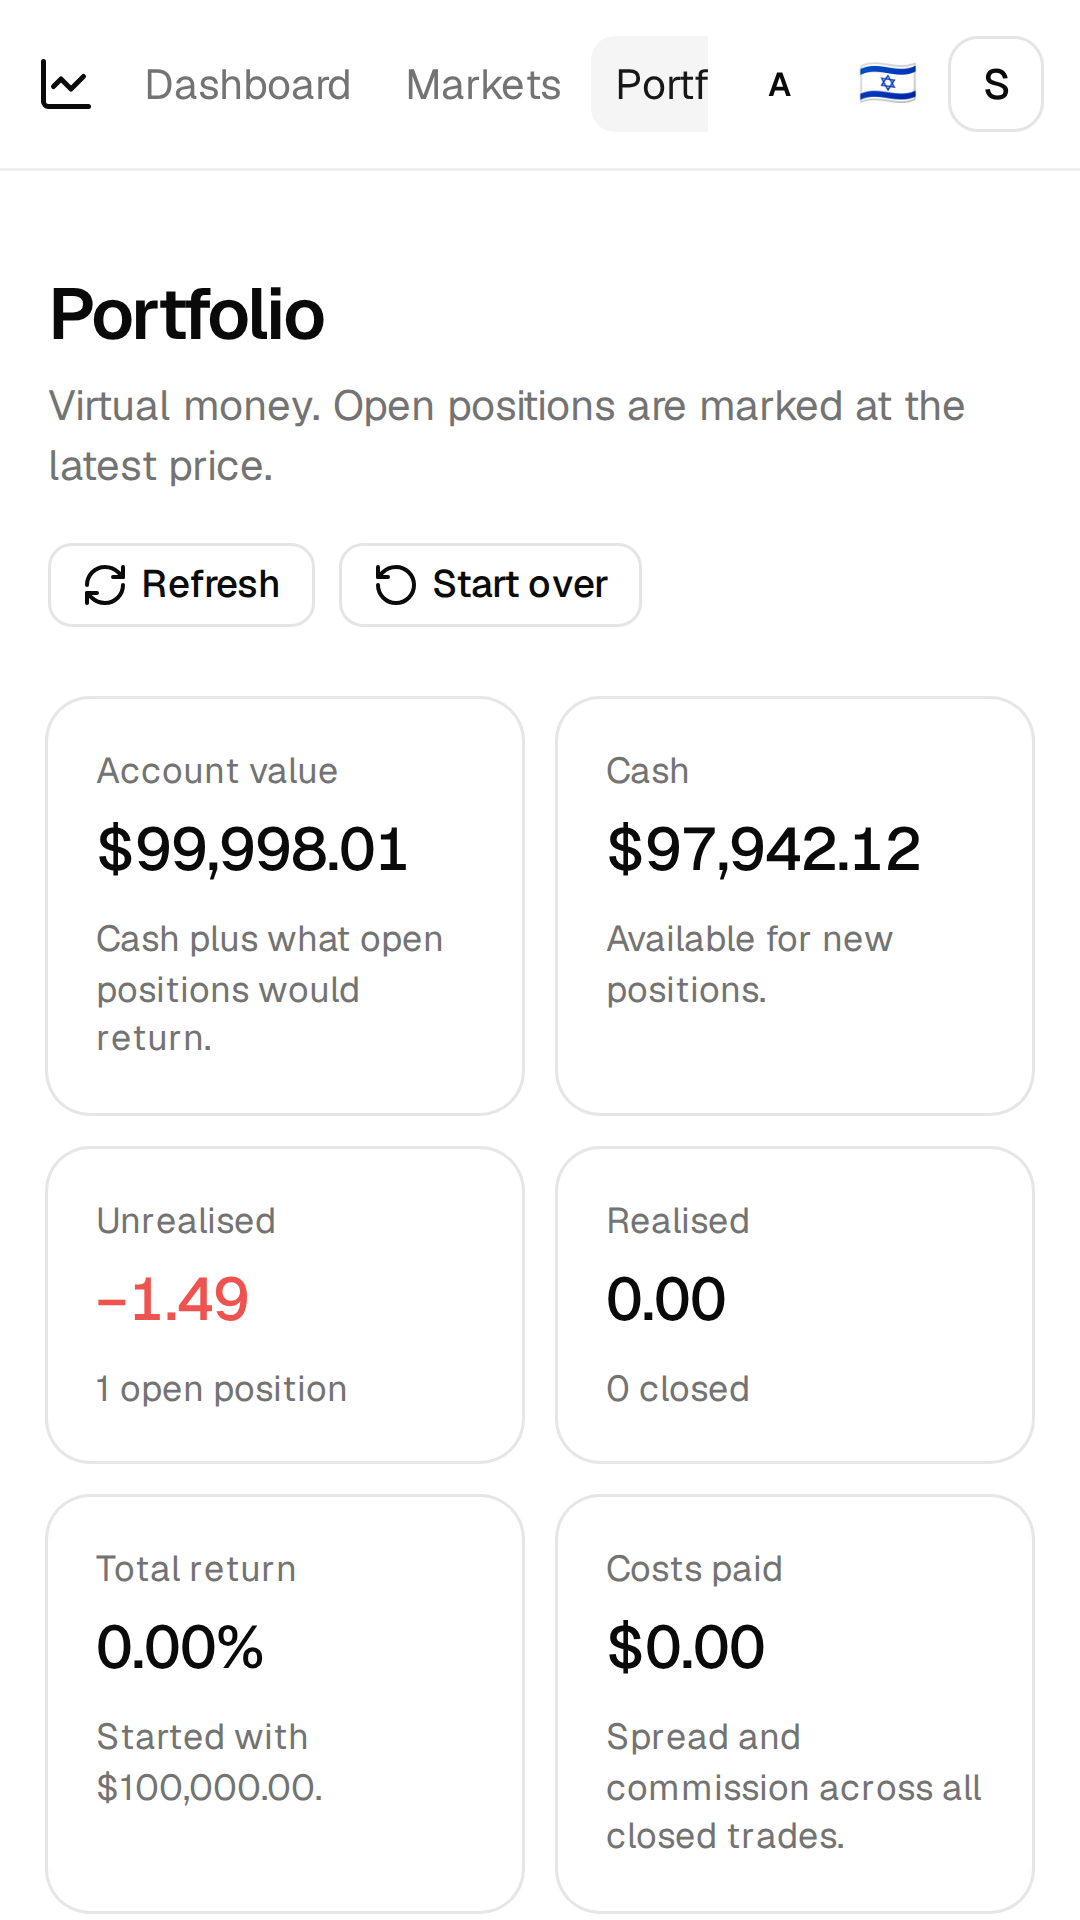
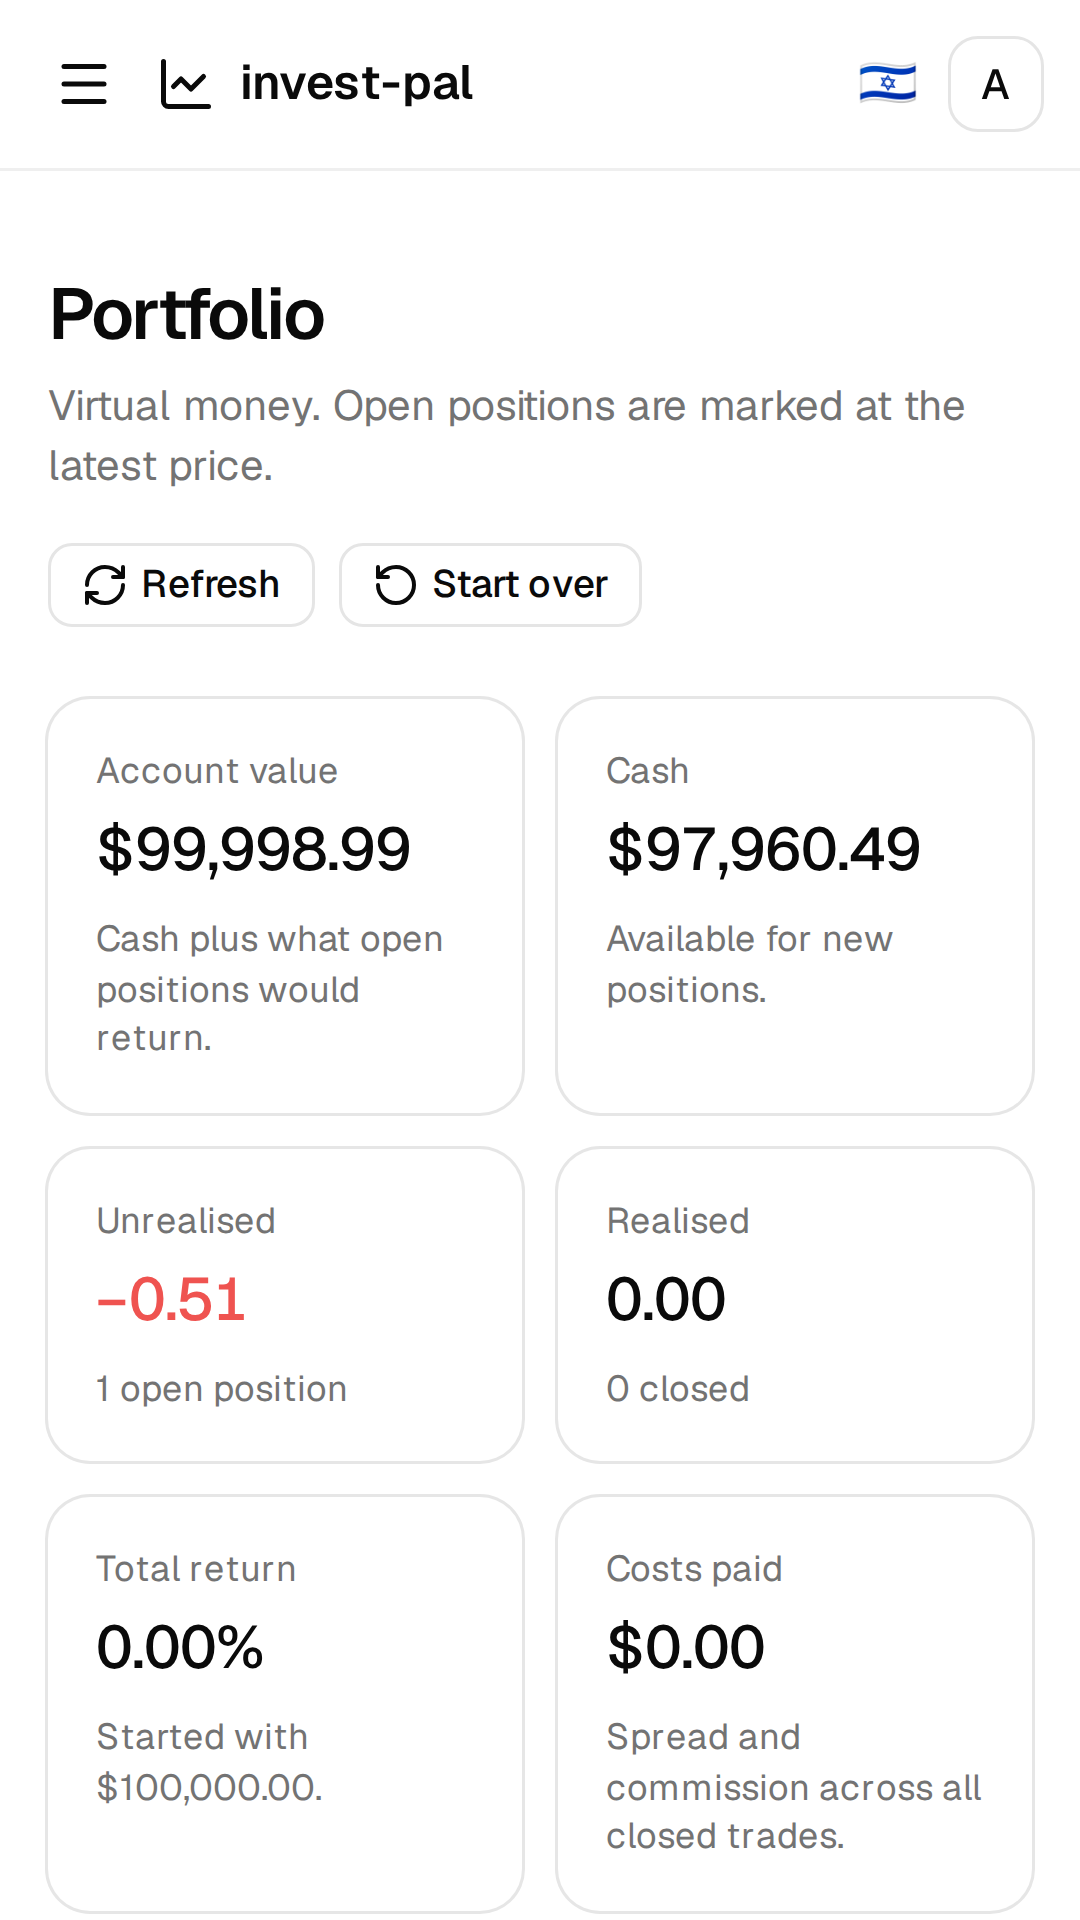
Retake the store screenshots on the current app, and add the settings menu
The listing showed an app that no longer exists: the old two-row header
with its tabs, and — once reviewed in Hebrew — signed numbers drawn
backwards, which #29 fixed. All ten are retaken against production after
that deploy, measured first: every signed value on the pages shot reads left
to right.

A fifth shot per language opens the menu on its settings. Dark mode, the
palettes, the text sizes and reduce motion all live behind that button, so a
listing that never opened it never showed them.

Claude-Session: https://claude.ai/code/session_01NV8A7hNTge8yUfUkjgw79p

diff --git a/store/README.md b/store/README.md
@@ -17,7 +17,9 @@ the app or bundled into the build.
 
 The screenshots are real captures of the deployed app on a 360×640 viewport at
 3× density, taken against production with an account that holds a position —
-not mockups. Recapture them with `screenshots.mjs` after any visual change, or
+not mockups. Five per language, in listing order: dashboard, markets, the Gann
+scanner, portfolio, and the menu open on its settings (appearance, colour, text
+size, language, reduce motion). Recapture them with `screenshots.mjs` after any visual change, or
 the listing will show an app that no longer exists.
 
 ## Building the APK
